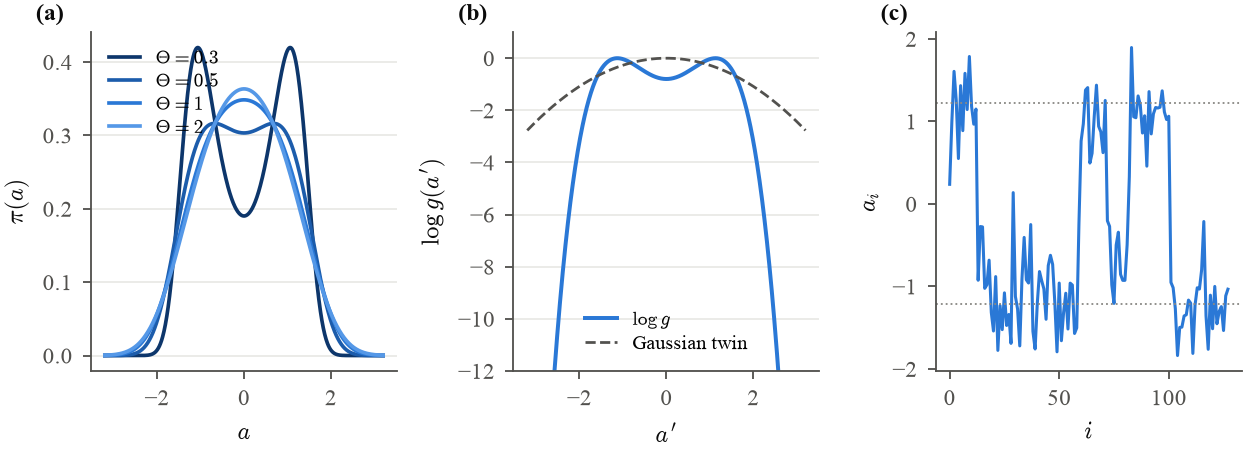
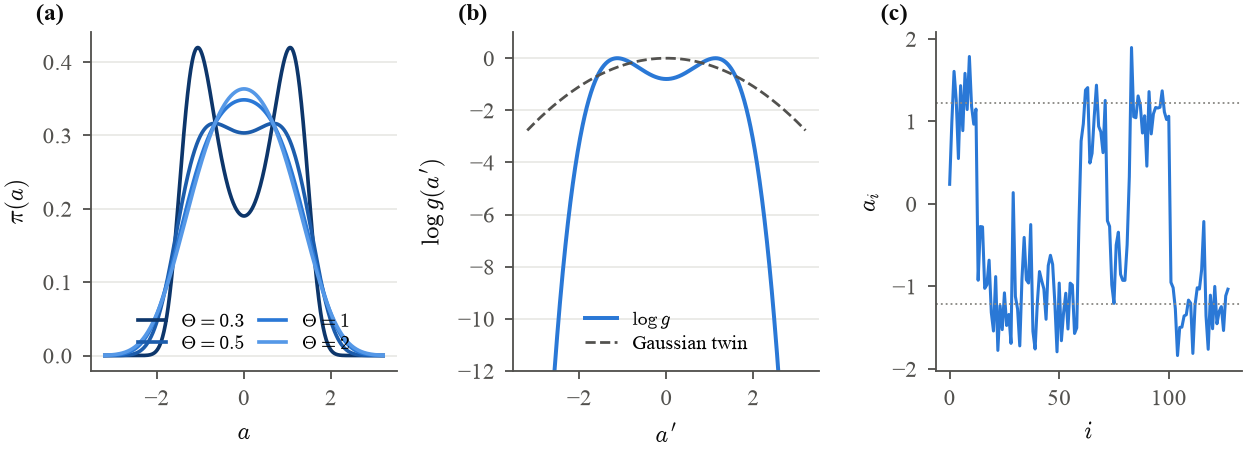
Report figure 2: legend in the trough between the wells, off the curves

Changed region(s): [[0.0915, 0.6814, 0.2745, 0.7743], [0.0915, 0.0929, 0.183, 0.1858], [0.0915, 0.2168, 0.1525, 0.3097]]

diff --git a/tools/make_report_field_figs.py b/tools/make_report_field_figs.py
@@ -70,7 +70,8 @@ def chain():
         ch = Phi4Chain(cells[cid]["T"], cells[cid]["h"])
         ax.plot(g, np.exp(ch.log_stationary(g)), color=fs.BLUE_RAMP[4 - j], lw=1.2, label=SHORT[cid])
     ax.set_xlabel("$a$"); ax.set_ylabel(r"$\pi(a)$"); fs.ygrid(ax); fs.panel_label(ax, "(a)")
-    ax.legend(fontsize=6.4, loc="upper left", handlelength=1.6, labelspacing=0.25)
+    # the trough between the wells is the one region every curve leaves empty
+    ax.legend(fontsize=6.4, loc="lower center", bbox_to_anchor=(0.5, 0.0), handlelength=1.4, labelspacing=0.2, ncol=2, columnspacing=0.7)
     base = Phi4Chain(cells["T0.3_h1_L32"]["T"], cells["T0.3_h1_L32"]["h"])
     lt = base.log_tilt(g); lt = lt - lt.max()
     bx.plot(g, lt, color=fs.CAT[0], lw=1.3, label=r"$\log g$")
